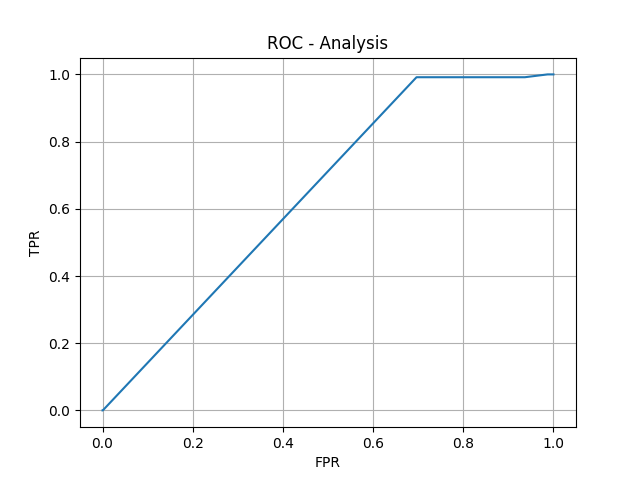
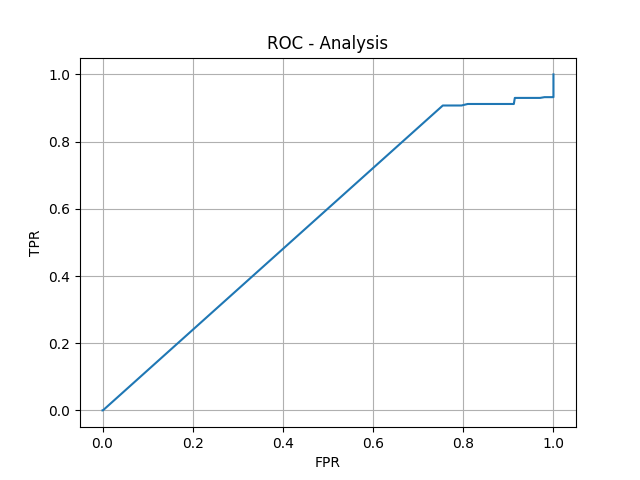
seemingly succesful train on unsw and cicids

diff --git a/EGraphSAGE_UNSW_train_AD.py b/EGraphSAGE_UNSW_train_AD.py
@@ -14,10 +14,9 @@ from ML_utils import yield_subgraphs
 from loguru import logger
 from EGraphSAGE import EGraphSAGE
 
-WINDOW = 5_000
-LR = 0.0005
-# LR = 0.01
-EPOCHS = 100
+WINDOW = 10_000
+LR = 0.005
+EPOCHS = 30
 timestamp = datetime.now().strftime("%Y%m%d_%H%M%S")
 RUN_ID = f"EGraphSAGE_anomdetection_UNSW_graphsage_{timestamp}"
 os.environ["LOGURU_LEVEL"] = "INFO"
@@ -49,8 +48,9 @@ def write_metrics(y_trues, y_probs, writer, epc, train_category: bool):
 
 # load processed flows
 logger.info("Loading data...", c="blue")
-train_flows = pd.read_csv("interm/unsw_nb15_processed_train.csv")
-test_flows = pd.read_csv("interm/unsw_nb15_processed_test.csv")
+train_f, test_f = ("interm/unsw_nb15_processed_train.csv", "interm/unsw_nb15_processed_test.csv")
+train_flows = pd.read_csv(train_f)
+test_flows = pd.read_csv(test_f)
 
 classes = list(np.unique(train_flows.Attack))
 flows = pd.concat([train_flows, test_flows], ignore_index=True)
@@ -69,17 +69,29 @@ logger.add(log_dir)
 writer = SummaryWriter(log_dir=exp_dir)
 
 # convert train_flows to 10:1 benign:attack ratio
-ben_flows = train_flows[train_flows.Attack == "Benign"]
-mal_flows = train_flows[train_flows.Attack != "Benign"]
-ben_index = np.arange(len(ben_flows))
-sample_index = np.random.choice(ben_index, replace=False, size=len(mal_flows) * 10)
-train_flows = pd.concat((mal_flows, ben_flows.iloc[sample_index]))
-# resort afterwords
-train_flows = train_flows.sort_values(by="FLOW_START_MILLISECONDS")
+def resample(flows, benign_class="Benign", ratio=10):
+    ben_flows = flows[flows.Attack == benign_class]
+    mal_flows = flows[flows.Attack != benign_class]
+    ben_index = np.arange(len(ben_flows))
+    sample_index = np.random.choice(ben_index, replace=False, size=len(mal_flows) * ratio)
+    resampled_flows = pd.concat((mal_flows, ben_flows.iloc[sample_index]))
+    return resampled_flows.sort_values(by="FLOW_START_MILLISECONDS")
+
+train_flows = resample(train_flows, benign_class="Benign", ratio=10)
+test_flows = resample(test_flows, benign_class="Benign", ratio=10)
+
+logger.warning('train set resampled resulting in n flows: {}'.format(len(train_flows)))
+logger.warning('train set new class distribution: {}'.format(np.unique(train_flows.Attack, return_counts=True)))
+logger.warning('test set resampled resulting in n flows: {}'.format(len(test_flows)))
+logger.warning('test set new class distribution: {}'.format(np.unique(test_flows.Attack, return_counts=True)))
 
 logger.info(
     f'train mal:ben = {sum(train_flows.Attack == "Benign")}:{sum(train_flows.Attack != "Benign")}'
 )
+logger.info(
+    f'test mal:ben = {sum(test_flows.Attack == "Benign")}:{sum(test_flows.Attack != "Benign")}'
+)
+
 logger.info(f"class distribution: {np.unique(train_flows.Attack, return_counts=True)}")
 features = list(flows.columns)
 print(features)
@@ -107,9 +119,12 @@ logger.info(
 logger.info(
     f"TEST: ben: {len(test_flows.Attack) - sum(test_flows.Attack)}, mal sum {sum(test_flows.Attack)}, mal perc: {np.mean(test_flows.Attack)}"
 )
-# w = float((train_flows.Attack == 0).sum() / train_flows.Attack.sum())
-criterion = torch.nn.BCEWithLogitsLoss()
 
+# 10:1 class imbalance, so use pos_weight in BCE loss
+w = sum(1 - train_flows.Attack) / sum(train_flows.Attack)
+criterion = torch.nn.BCEWithLogitsLoss(pos_weight=torch.tensor(w))
+
+# optimizer
 optimizer = torch.optim.Adam(model.parameters(), lr=LR)
 best_test_auc = 0.0
 
@@ -122,7 +137,7 @@ for epc in range(1, EPOCHS - 1):
     avg_loss, y_trues, y_probs, embeddings = model.train_flows(
         train_flows, criterion=criterion, optimizer=optimizer, window=WINDOW, train=True
     )
-    pr_auc, roc_auc, f1, prec, rec = write_metrics(
+    train_pr_auc, train_roc_auc, train_f1, prec, rec = write_metrics(
         y_trues, y_probs, writer, epc, train_category=True
     )
     writer.add_scalar(f"PosRate/Train/MeanProb", np.mean(y_probs), epc)
@@ -145,13 +160,12 @@ for epc in range(1, EPOCHS - 1):
         f"Train Loss: {avg_loss:.4f} | "
         f"Test loss: {test_avg_loss:.4f} | "
         f"Test PR AUC: {pr_auc:.4f} | "
+        f"Train PR AUC: {train_pr_auc:.4f} | "
         f"Test ROC AUC: {roc_auc:.4f} | "
+        f"Train ROC AUC: {train_roc_auc:.4f} | "
+        f"Test F1: {f1:.4f} | "
+        f"Train F1: {train_f1:.4f} | "
     )
-
-    # Save best model only (using TEST PR AUC)
-    # if pr_auc > best_test_auc:
-    #     best_test_auc = pr_auc
-    #     torch.save(model.state_dict(), exp_dir / f"best_model.pt")
 
     # save current model (warning: may overfit)
     torch.save(model.state_dict(), exp_dir / f"best_model.pt")
@@ -170,7 +184,7 @@ for epc in range(1, EPOCHS - 1):
         "best_test_auc": best_test_auc,
         "label_encoder_classes": list(classes),
         'lr': LR,
-        'test_df_location': 'interm/unsw_nb15_processed_test.csv', 
+        'test_df_location': test_f, 
     }
 
     with open(exp_dir / "experiment.pkl", "wb") as f:

diff --git a/EGraphSAGE.py b/EGraphSAGE.py
@@ -21,28 +21,38 @@ class EGraphSAGE(nn.Module):
         for i in range(len(self.channels) - 1):
             self.layers.append(
                 EdgeSAGELayer(
-                    in_channels=self.channels[i], out_channels=self.channels[i + 1]
+                    edge_features=self.num_features,
+                    in_channels=self.channels[i], 
+                    out_channels=self.channels[i + 1]
                 )
             )
 
         # add final binary linear layer
         self.layers.append(nn.Linear(self.channels[-1], 1))  
 
-    def forward(self, edge_attr, edge_index, num_nodes):
+    def forward(self, edge_attr, edge_index, node_attr):
         for i, channel in enumerate(self.channels):
-            # ends with linear
+
+            # linear
             if i == len(self.channels) - 1:
-                embeddings = edge_attr.clone().detach()
+                # average node embeddings for each edge
+                src, dst = edge_index
+                edge_embs = (node_attr[src] + node_attr[dst]) / 2
+
+                # hold embeddings
+                embeddings = edge_embs.clone().detach()
+
+                # final binary MLP layer
                 linear_layer = self.layers[i]
-                edge_attr = linear_layer(edge_attr)
+                edge_attr = linear_layer(edge_embs)
 
             # SAGE
             else:
-                SAGE_layer = self.layers[i]  # starts with SAGE
-                edge_attr = SAGE_layer(
+                SAGE_layer = self.layers[i]
+                node_attr = SAGE_layer(
                     edge_attr,
                     edge_index,
-                    node_attr=torch.ones([num_nodes, channel]),
+                    node_attr=node_attr,
                 )
 
         return edge_attr.view(-1), embeddings
@@ -66,7 +76,11 @@ class EGraphSAGE(nn.Module):
             if train:
                 optimizer.zero_grad()
 
-            logits, emb = self.forward(G.edge_attr, G.edge_index, num_nodes=G.num_nodes)
+            n_nodes = G.edge_index.max().item() + 1
+            logits, emb = self.forward(G.edge_attr, 
+                                       G.edge_index, 
+                                       node_attr=torch.ones(
+                                           size=(n_nodes, self.num_features)).to(device))
             probs = torch.sigmoid(logits)
             y = G.y.to(device).float()
             loss = criterion(logits, y)
@@ -75,8 +89,6 @@ class EGraphSAGE(nn.Module):
                 logger.debug(
                     f"WINDOW index={i}: edge index shape {G.edge_index.shape} edge_attr shape {G.edge_attr.shape}"
                 )
-                # logger.debug(f"probs.shape = {probs.shape}")
-                # logger.debug(f"y_probs unique = {np.unique(probs, return_counts=True)}")
                 logger.debug(f"y shape = {y.size()}")
                 logger.debug(f"y unique = {np.unique(y, return_counts=True)}")
 
@@ -101,31 +113,23 @@ class EGraphSAGE(nn.Module):
 
 
 class EdgeSAGELayer(nn.Module):
-    def __init__(self, in_channels, out_channels):
+    def __init__(self, edge_features, in_channels, out_channels):
         super().__init__()
-        self.W = nn.Linear(in_channels, out_channels)
+        self.W = nn.Linear(in_channels + edge_features, out_channels)
 
-    def forward(self, edge_attr, edge_index, 
-                node_attr, edge_weights=None):
-        
+    def forward(self, edge_attr, edge_index, node_attr):
         # edge_attr: (E, F)
         # edge_index: (2, E)
-        if edge_weights is None:
-            edge_weights = torch.ones(edge_index.shape[1])
-        assert edge_weights.shape[0] == edge_index.shape[1]
-
         num_nodes = edge_index.max().item() + 1
-        src, dst = edge_index
 
         target_indices = edge_index[0, :].reshape(-1)
         edge_aggregated_mean = scatter_mean(
             edge_attr, target_indices, dim=0, dim_size=num_nodes  # (W, 10)  # (W)
         )
 
-        mean_sum_embedds = node_attr + edge_aggregated_mean / 2
-        node_embeddings = torch.sigmoid(self.W(mean_sum_embedds))
-
-        # concatenate adjacent node embeddings to form edge embeddings
-        edge_embeddings = (node_embeddings[src] + node_embeddings[dst]) / 2
-        assert edge_embeddings.shape[0] == edge_attr.shape[0]
-        return edge_embeddings
+        node_edge_concat_embs = torch.cat([node_attr, edge_aggregated_mean], dim=1)
+        new_node_embeddings = torch.sigmoid(self.W(node_edge_concat_embs))
+        
+        assert new_node_embeddings.shape[0] == node_attr.shape[0]
+        return new_node_embeddings
+        

diff --git a/eval_EGraphSAGE_AD.py b/eval_EGraphSAGE_AD.py
@@ -14,15 +14,14 @@ from sklearn.metrics import (
     precision_recall_curve,
     classification_report,
 )
+from tqdm import tqdm
 from EGraphSAGE import EGraphSAGE
 import sys
 from loguru import logger
 
-THRESH = 0.5
-logger.warning('Using threshold:', THRESH)
 
-def get_metrics(y_true, y_pred_probs):
-    y_pred = y_pred_probs > THRESH
+def get_metrics(y_true, y_pred_probs, threshold=0.5):
+    y_pred = y_pred_probs > threshold
     P, R = (
         precision_score(y_true, y_pred, pos_label=1),
         recall_score(y_true, y_pred, pos_label=1),
@@ -37,22 +36,16 @@ def get_metrics(y_true, y_pred_probs):
 
 device = "cpu"
 
-# tensorboard log directory
+# tensorboard log directory (most recently created in interm/runs)
 exp_dir: Path = Path(sys.argv[1])
 if exp_dir == Path("newest"):
-    exp_dirs = sorted(
-        Path("interm/runs").glob("*_*"),
-        key=lambda p: (
-            int(p.name.split("_")[-1]) + int(p.name.split("_")[-2]) * 1000000 
-            if len(p.name.split("_")) >= 2 else 0
-        ),
-        reverse=True,
-    )
-    if not exp_dirs:
-        raise ValueError("No experiment directories found in 'interm/runs/'")
-    
-    exp_dir = exp_dirs[0]
+    exp_dirs = list(Path("interm/runs").glob("*"))
+    exp_dir = max(exp_dirs, key=lambda d: d.stat().st_ctime)
     logger.info(f"Using newest experiment directory: {exp_dir}")
+else:
+    if not exp_dir.exists():
+        raise ValueError(f"Experiment directory {exp_dir} does not exist.")
+    logger.info(f"Using specified experiment directory: {exp_dir}")
 
 logger.info(f"Experiment directory: {exp_dir}")
 figure = Path("figures") / exp_dir.name
@@ -103,7 +96,6 @@ with torch.no_grad():
 
 y_true_bin = np.array(y_true_bin)
 y_probs = np.array(y_probs)
-logger.debug(f"y_probs values counts: {np.bincount((y_probs > THRESH).astype(int))}")
 logger.debug(f"start of y_probs: {y_probs[:10]}")
 
 
@@ -114,7 +106,26 @@ plt.title("Prediction Probability Distribution")
 plt.show()
 plt.clf()
 
-y_pred_bin = (y_probs > THRESH).astype(int)
+# get the best threshhold
+candidate_threshholds = np.linspace(0, 1, 500)
+best_f1 = 0
+best_thresh = 0.5
+for t in tqdm(candidate_threshholds, desc="Finding best threshold for f1"):
+    y_pred = (y_probs > t).astype(int)
+    P, R = (
+        precision_score(y_true_bin, y_pred, pos_label=1),
+        recall_score(y_true_bin, y_pred, pos_label=1),
+    )
+    if P == 0.0:
+        break # stopped predicting any positives, no need to continue
+    f1 = 2 * P * R / (P + R) if P + R > 0 else 0.0
+    if f1 > best_f1:
+        best_f1 = f1
+        best_thresh = t
+
+logger.info(f"Best threshold: {best_thresh:.4f} with F1: {best_f1:.4f}")
+logger.info('n of mal edges edges predicted with threshold: {}'.format((y_probs > best_thresh).sum()))
+y_pred_bin = (y_probs > best_thresh).astype(int)
 
 # 1. Binary Evaluation
 print("\n===== BINARY (Benign vs Malicious) =====")
@@ -172,7 +183,7 @@ for attack in unique_attacks:
 
     y_true_attack = (attack_labels[mask] == attack).astype(int)
     y_probs_attack = y_probs[mask]
-    y_pred_attack = (y_probs_attack > THRESH).astype(int)
+    y_pred_attack = (y_probs_attack > best_thresh).astype(int)
 
     if len(np.unique(y_true_attack)) < 2:
         print("Skipping (only one class present)")

diff --git a/EGraphSAGE_CICIDS_train_AD.py b/EGraphSAGE_CICIDS_train_AD.py
@@ -17,9 +17,9 @@ from EGraphSAGE import EGraphSAGE
 # config
 logger.remove(0) 
 logger.add(sys.stderr, level="INFO") 
-WINDOW = 5_000
+WINDOW = 10_000
 LR = 0.005
-EPOCHS = 20
+EPOCHS = 30
 timestamp = datetime.now().strftime("%Y%m%d_%H%M%S")
 RUN_ID = f"EGraphSAGE_anomdetection_CICIDS_graphsage_{timestamp}"
 device = "cpu"
@@ -121,7 +121,7 @@ for epc in range(1, EPOCHS - 1):
     avg_loss, y_trues, y_probs, embeddings = model.train_flows(
         train_flows, criterion=criterion, optimizer=optimizer, window=WINDOW, train=True
     )
-    pr_auc, roc_auc, f1, prec, rec = write_metrics(
+    train_pr_auc, train_roc_auc, train_f1, prec, rec = write_metrics(
         y_trues, y_probs, writer, epc, train_category=True
     )
     writer.add_scalar(f"PosRate/Train/MeanProb", np.mean(y_probs), epc)
@@ -144,7 +144,11 @@ for epc in range(1, EPOCHS - 1):
         f"Train Loss: {avg_loss:.4f} | "
         f"Test loss: {test_avg_loss:.4f} | "
         f"Test PR AUC: {pr_auc:.4f} | "
+        f"Train PR AUC: {train_pr_auc:.4f} | "
         f"Test ROC AUC: {roc_auc:.4f} | "
+        f"Train ROC AUC: {train_roc_auc:.4f} | "
+        f"Test F1: {f1:.4f} | "
+        f"Train F1: {train_f1:.4f} | "
     )
 
     # save current model (warning: may overfit)
@@ -163,6 +167,7 @@ for epc in range(1, EPOCHS - 1):
         "le": le,
         "best_test_auc": best_test_auc,
         "label_encoder_classes": list(classes),
+        'test_df_location': 'interm/cicids_processed_test.csv',
     }
 
     with open(exp_dir / "experiment.pkl", "wb") as f:
